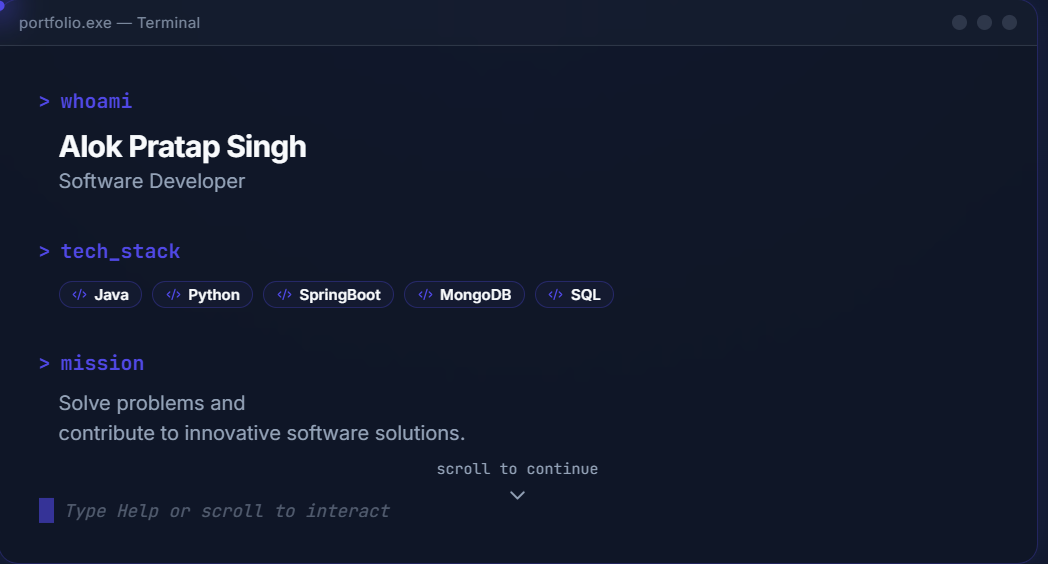
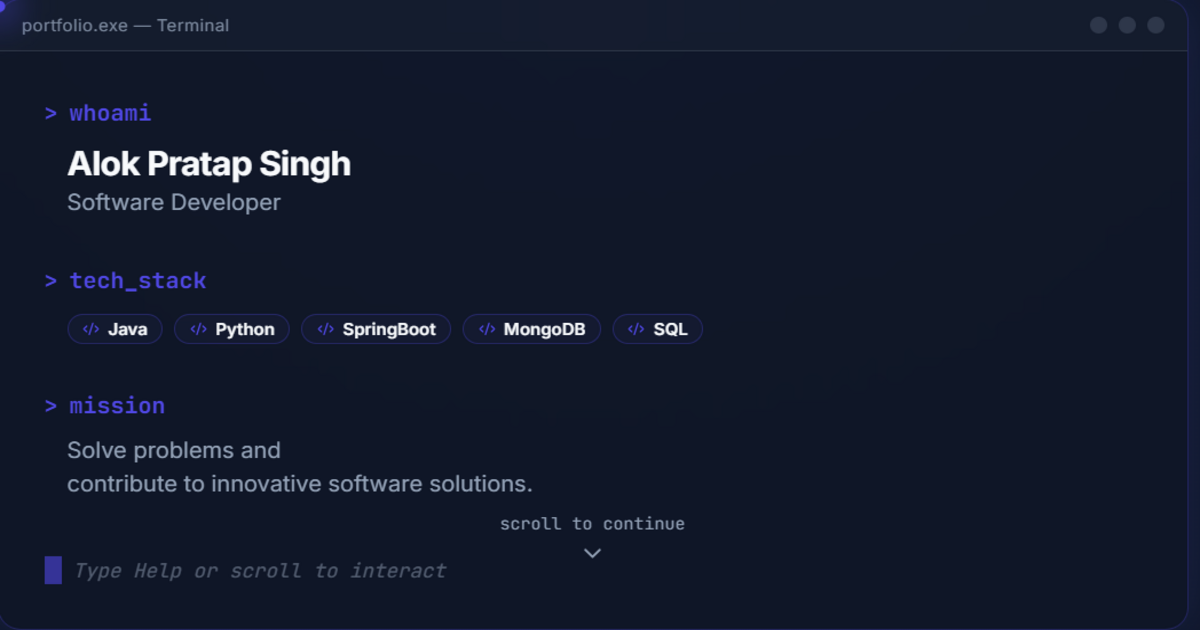
last

diff --git a/index.html b/index.html
@@ -17,16 +17,15 @@
   <meta property="og:title" content="Alok Pratap Singh - Software Developer" />
   <meta property="og:description"
     content="Passionate Full-Stack Developer specializing in MERN stack. Building modern web applications with clean UI and seamless user experiences." />
-  <meta property="og:url" content="https://a6ff61dd.portfolio-uil.pages.dev" />
+  <meta property="og:url" content="https://portfolio1-btl.pages.dev" />
   <meta property="og:type" content="website" />
-  <meta property="og:image" content="https://a6ff61dd.portfolio-uil.pages.dev/preview.png" />
+  <meta property="og:image" content="https://portfolio1-btl.pages.dev/preview.png" />
 
   <meta name="twitter:card" content="summary_large_image" />
   <meta name="twitter:title" content="Alok Pratap Singh - Software Developer" />
   <meta name="twitter:description"
     content="Passionate Software Developer specializing in JAVA-Spring Boot, MongoDB, React, and Node.js" />
-  <meta name="twitter:image" content="https://a6ff61dd.portfolio-uil.pages.dev/preview.png" />
-  <meta name="" content="" />
+  <meta name="twitter:image" content="https://portfolio1-btl.pages.dev/preview.png" />
 
   <link rel="preconnect" href="https://fonts.googleapis.com">
   <link rel="preconnect" href="https://fonts.gstatic.com" crossorigin>
